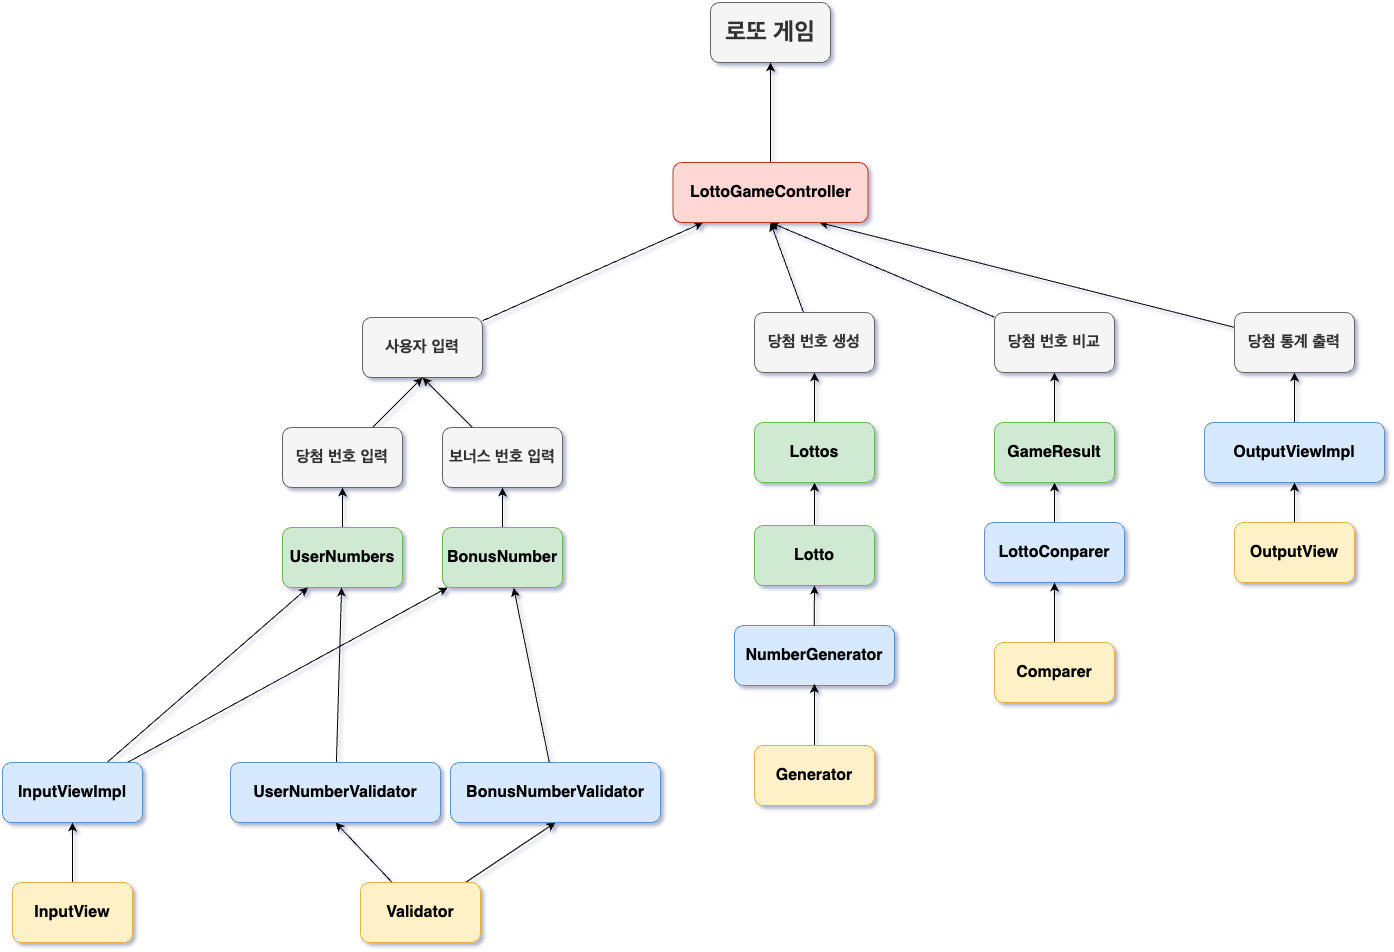
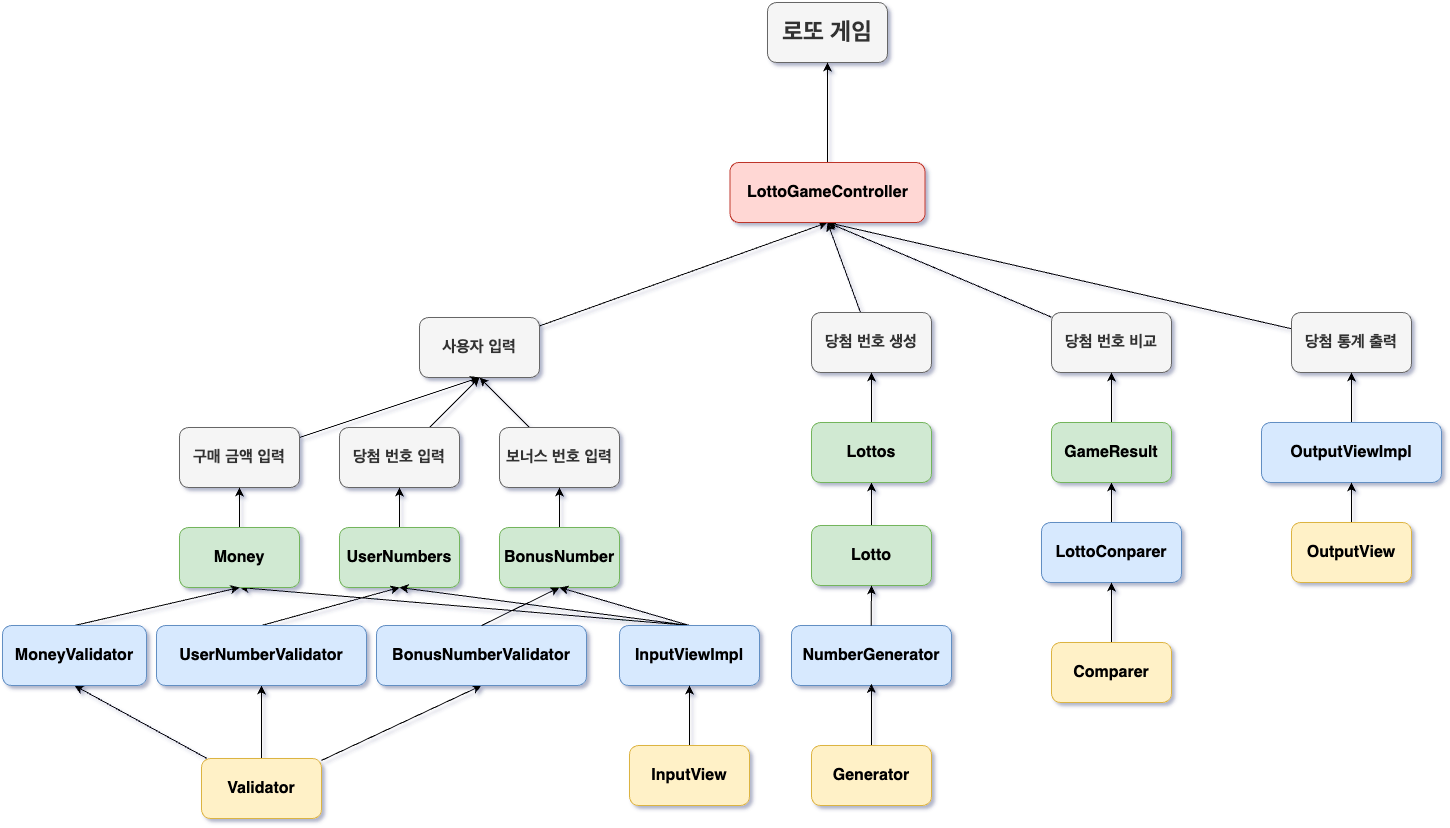
feat(MONEY): 구매금액 입력 기능 추가
사용자의 입력으로 구매금액을 저장하는 기능을 개발 했습니다.
다음과 같은 상황에서 익셉션이 발생합니다.
- 숫자가 아닌 경우
- 1000원 미만인 경우
- 1000원 단위가 아닌 경우

BREAKING CHANGE: 에러 메시지와 게임 메시지를 분리하였습니다.

diff --git a/src/main/java/lotto/controller/LottoGameController.java b/src/main/java/lotto/controller/LottoGameController.java
@@ -1,5 +1,48 @@
 package lotto.controller;
 
+import lotto.constants.GameMessages;
+import lotto.domain.BonusNumber;
+import lotto.domain.GameResult;
+import lotto.domain.Lotto;
+import lotto.domain.Money;
+import lotto.domain.UserNumbers;
+import lotto.util.comparer.impl.LottoComparer;
+import lotto.util.generator.impl.NumberGenerator;
+import lotto.view.InputView;
+import lotto.view.OutputView;
+import lotto.view.impl.InputViewImpl;
+import lotto.view.impl.OutputViewImpl;
+
 public class LottoGameController {
 
+    private final InputView inputView;
+    private final OutputView outputView;
+    private final LottoComparer lottoComparer;
+    private final NumberGenerator numberGenerator;
+    private Lotto lotto;
+    private UserNumbers userNumbers;
+    private BonusNumber bonusNumber;
+    private GameResult gameResult;
+    private Money money;
+
+    public LottoGameController() {
+        this.inputView = new InputViewImpl();
+        this.outputView = new OutputViewImpl();
+        this.lottoComparer = new LottoComparer();
+        this.numberGenerator = new NumberGenerator();
+    }
+
+    public void run() {
+        initMoney();
+    }
+
+    public void initMoney() {
+        try {
+            money = new Money(inputView.inputMoney());
+        }
+        catch (IllegalArgumentException e) {
+            outputView.printErrorMessage(e.getMessage());
+            initMoney();
+        }
+    }
 }

diff --git a/src/main/java/lotto/validator/impl/MoneyValidator.java b/src/main/java/lotto/validator/impl/MoneyValidator.java
@@ -1,0 +1,36 @@
+package lotto.validator.impl;
+
+import java.util.stream.Stream;
+import lotto.constants.ErrorMessages;
+import lotto.validator.Validator;
+
+public class MoneyValidator implements Validator<String> {
+
+      @Override
+      public void validate(String money) {
+            int moneyNumeric = isNumeric(money);
+            isInValidRange(moneyNumeric);
+            isMultipleOfThousand(moneyNumeric);
+      }
+
+      void isInValidRange(int money) {
+            if (money < 1000) {
+                  throwException(ErrorMessages.INPUT_MONEY_RANGE);
+            }
+      }
+
+      void isMultipleOfThousand(int money) {
+            if (money % 1000 != 0) {
+                  throwException(ErrorMessages.INPUT_MONEY_UNIT);
+            }
+      }
+
+      int isNumeric(String money) {
+            try {
+                  Integer.parseInt(money);
+            } catch (NumberFormatException e) {
+                  throwException(ErrorMessages.INPUT_MONEY_NUMERIC);
+            }
+            return Integer.parseInt(money);
+      }
+}

diff --git a/src/main/java/lotto/view/impl/InputViewImpl.java b/src/main/java/lotto/view/impl/InputViewImpl.java
@@ -1,7 +1,28 @@
 package lotto.view.impl;
 
+import camp.nextstep.edu.missionutils.Console;
+import lotto.constants.GameMessages;
 import lotto.view.InputView;
 
 public class InputViewImpl implements InputView {
 
+    @Override
+    public String inputMoney() {
+        System.out.println(GameMessages.INPUT_MONEY.getMessage());
+        return input();
+    }
+
+    @Override
+    public String inputUserNumbers() {
+        return null;
+    }
+
+    @Override
+    public String inputBonusNumber() {
+        return null;
+    }
+
+    String input() {
+        return Console.readLine();
+    }
 }

diff --git a/src/main/java/lotto/constants/ErrorMessages.java b/src/main/java/lotto/constants/ErrorMessages.java
@@ -1,0 +1,18 @@
+package lotto.constants;
+
+public enum ErrorMessages {
+    ERROR_PREFIX("[ERROR] "),
+    INPUT_MONEY_RANGE("구입 금액은 1000원 이상 이어야 합니다."),
+    INPUT_MONEY_UNIT("구입 금액은 1000원 단위로 입력 해야 합니다."),
+    INPUT_MONEY_NUMERIC("구입 금액은 숫자로 입력 해야 합니다.");
+
+    private final String message;
+
+    ErrorMessages(String message) {
+        this.message = message;
+    }
+
+    public String getMessage() {
+        return ERROR_PREFIX.message + message;
+    }
+}

diff --git a/src/main/java/lotto/view/impl/OutputViewImpl.java b/src/main/java/lotto/view/impl/OutputViewImpl.java
@@ -1,7 +1,27 @@
 package lotto.view.impl;
 
+import lotto.constants.ErrorMessages;
 import lotto.view.OutputView;
 
 public class OutputViewImpl implements OutputView {
 
+    @Override
+    public void printLottoNumbers() {
+
+    }
+
+    @Override
+    public void printGameResult() {
+
+    }
+
+    @Override
+    public void printProfit() {
+
+    }
+
+    @Override
+    public void printErrorMessage(String message) {
+        System.out.println(message);
+    }
 }

diff --git a/src/main/java/lotto/domain/Money.java b/src/main/java/lotto/domain/Money.java
@@ -1,0 +1,20 @@
+package lotto.domain;
+
+import lotto.validator.impl.MoneyValidator;
+
+public class Money {
+    private int money;
+
+    public Money(String money) {
+        validate(money);
+        this.money = Integer.parseInt(money);
+    }
+
+    void validate(String money) {
+        new MoneyValidator().validate(money);
+    }
+
+    public int getMoney() {
+        return money;
+    }
+}

diff --git a/src/main/java/lotto/validator/Validator.java b/src/main/java/lotto/validator/Validator.java
@@ -1,5 +1,10 @@
 package lotto.validator;
 
-public interface Validator {
-    void validate();
+import lotto.constants.ErrorMessages;
+
+public interface Validator<T> {
+    void validate(T data);
+    default void throwException(ErrorMessages errorMessages) {
+        throw new IllegalArgumentException(errorMessages.getMessage());
+    }
 }

diff --git a/src/main/java/lotto/constants/GameMessages.java b/src/main/java/lotto/constants/GameMessages.java
@@ -1,0 +1,15 @@
+package lotto.constants;
+
+public enum GameMessages {
+    INPUT_MONEY("구입금액을 입력해 주세요.");
+
+    private final String message;
+
+    GameMessages(String message) {
+        this.message = message;
+    }
+
+    public String getMessage() {
+        return message;
+    }
+}

diff --git a/src/main/java/lotto/Application.java b/src/main/java/lotto/Application.java
@@ -1,7 +1,9 @@
 package lotto;
 
+import lotto.controller.LottoGameController;
+
 public class Application {
     public static void main(String[] args) {
-        // TODO: 프로그램 구현
+        new LottoGameController().run();
     }
 }

diff --git a/src/main/java/lotto/view/OutputView.java b/src/main/java/lotto/view/OutputView.java
@@ -1,7 +1,10 @@
 package lotto.view;
 
+import lotto.constants.ErrorMessages;
+
 public interface OutputView {
     void printLottoNumbers();
     void printGameResult();
     void printProfit();
+    void printErrorMessage(String message);
 }
